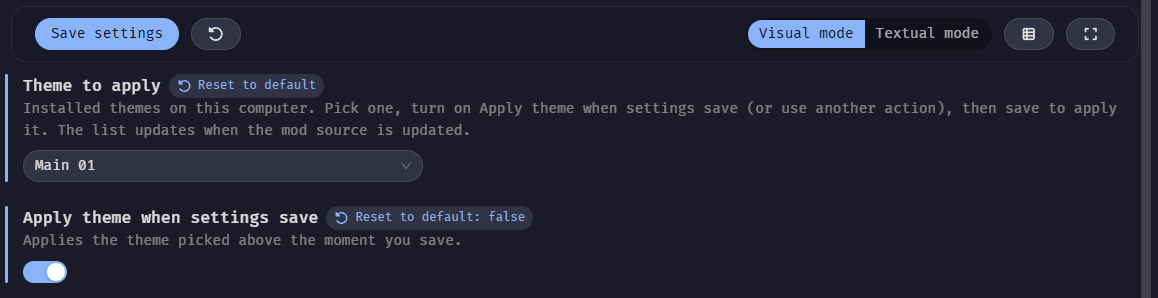
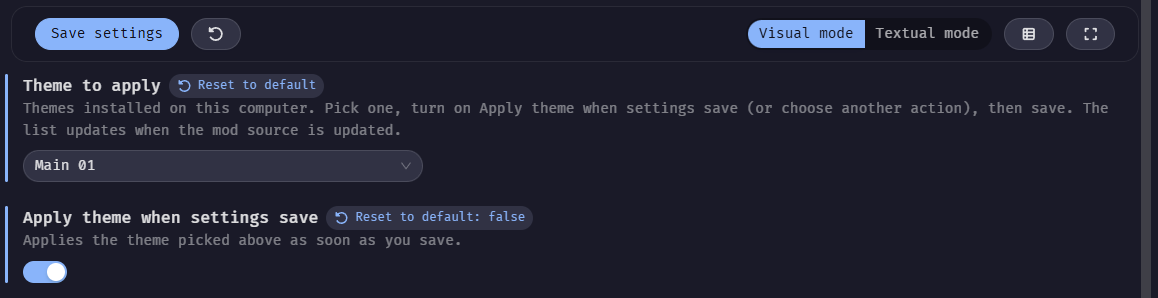
Theme Tool Plus 1.1.1: preview and install script follow the new settings text
The preview now shows the current settings tab with the new wording. The install
script no longer stops when the UXTheme hook key is missing, since there is
nothing to switch off in that case. The version goes to 1.1.1.

diff --git a/mods/local/theme-tool-plus/theme-tool-plus.wh.cpp b/mods/local/theme-tool-plus/theme-tool-plus.wh.cpp
@@ -2,7 +2,7 @@
 // @id              theme-tool-plus
 // @name            Theme Tool Plus
 // @description     Apply and switch custom Windows themes from the settings tab. No separate theme tool needed
-// @version         1.1.0
+// @version         1.1.1
 // @author          DavidHiFi, rounk-ctrl, namazso
 // @github          https://github.com/DavidHiFi/davids-windhawk-mods
 // @include         explorer.exe
